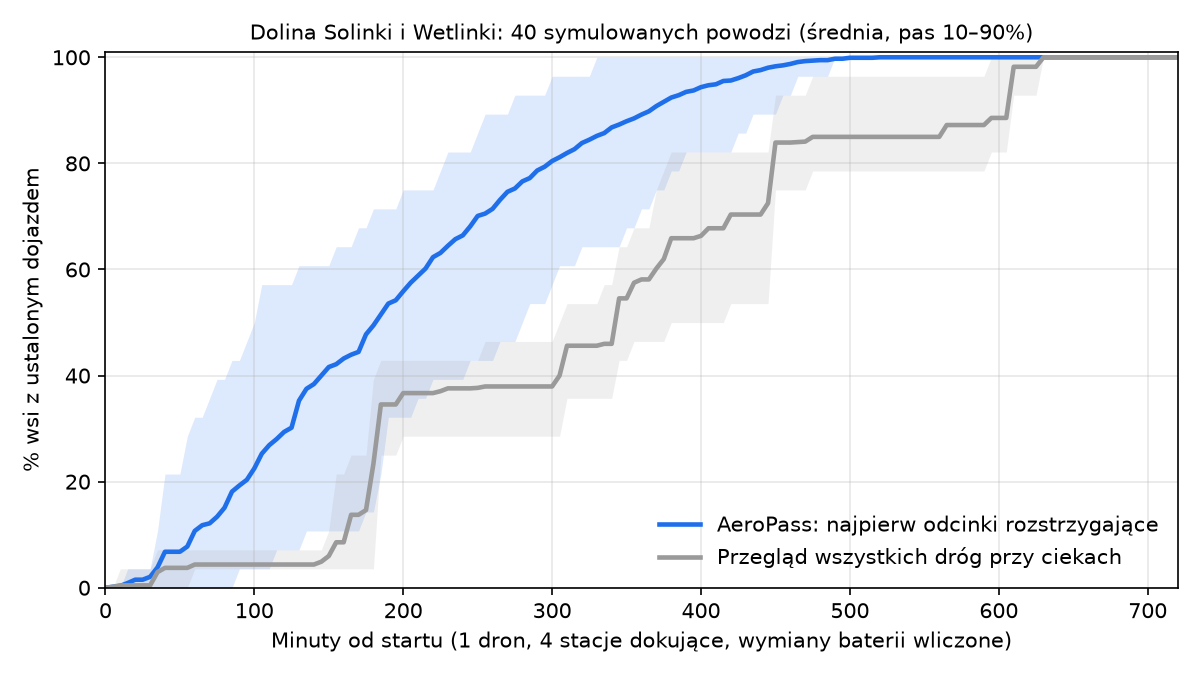
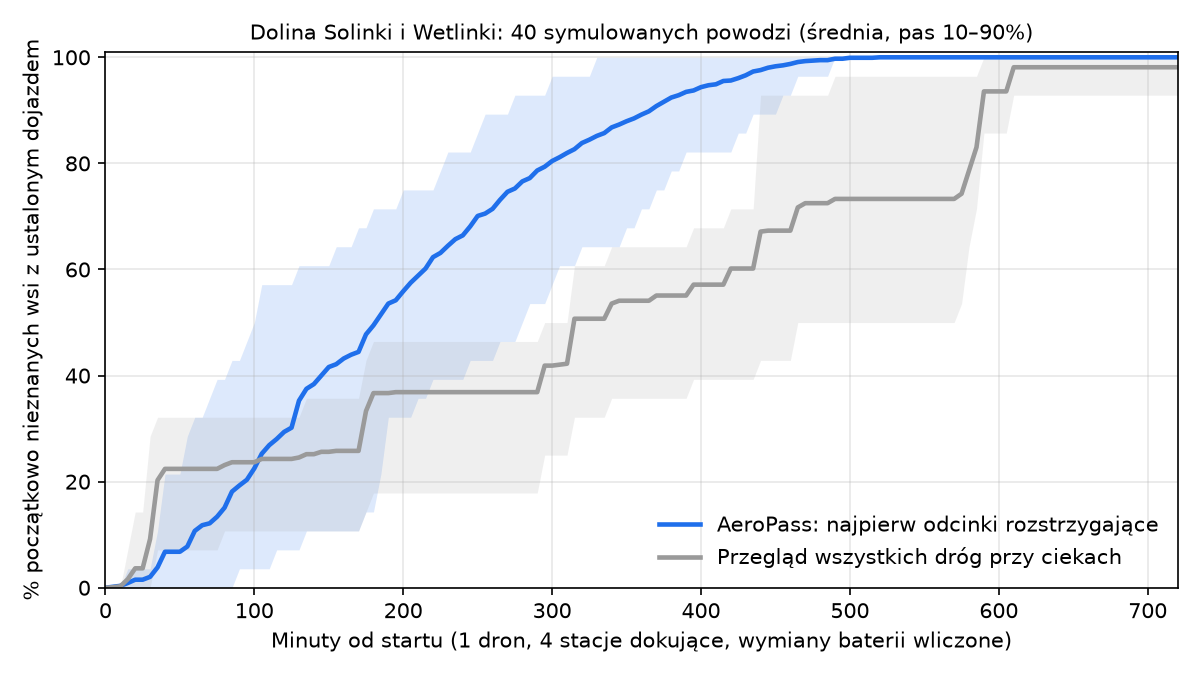
Ustabilizuj symulację Monte Carlo i przelicz wyniki

diff --git a/planer/monte_carlo.py b/planer/monte_carlo.py
@@ -20,6 +20,7 @@ Uruchomienie z katalogu repo: python planer/monte_carlo.py [liczba_scenariuszy]
 """
 import json
 import random
+import statistics
 import sys
 from pathlib import Path
 
@@ -150,9 +151,9 @@ def symuluj(swiat, prawda, strategia, obserwuj=None, po_kroku=None, drony=1):
                     if stany.get(k) == "nieznany" and k in kandydaci:
                         licznik[k] = licznik.get(k, 0) + 1
             if licznik:
-                oid = max(licznik, key=lambda o: licznik[o] / (dolot(swiat, poz, o)[0] + swiat.po_id[o]["dlugosc_m"] + 1))
+                oid = min(licznik, key=lambda o: (-licznik[o] / (dolot(swiat, poz, o)[0] + swiat.po_id[o]["dlugosc_m"] + 1), o))
         if oid is None:  # A zawsze; B, gdy nic już nie rozstrzyga: najbliższy niesprawdzony
-            oid = min(kandydaci, key=lambda o: dolot(swiat, poz, o)[0])
+            oid = min(kandydaci, key=lambda o: (dolot(swiat, poz, o)[0], o))
         d_dolot, wyjscie = dolot(swiat, poz, oid)
         przelot = (d_dolot + swiat.po_id[oid]["dlugosc_m"]) / V
         powrot = min(siec.hav(wyjscie, dk) for dk in swiat.doki) / V
@@ -211,7 +212,7 @@ def wykres(minuty, wyniki, n, drony, plik):
         ax.fill_between(minuty, p10, p90, color=kolor, alpha=0.15, linewidth=0)
         ax.plot(minuty, sr, color=kolor, linewidth=2.2, label=etykieta)
     ax.set_xlabel(f"Minuty od startu ({drony} {'dron' if drony == 1 else 'drony'}, {len(STACJE_CACHE)} stacje dokujące, wymiany baterii wliczone)")
-    ax.set_ylabel("% wsi z ustalonym dojazdem")
+    ax.set_ylabel("% początkowo nieznanych wsi z ustalonym dojazdem")
     ax.set_ylim(0, 101)
     ax.set_xlim(0, minuty[-1])
     ax.grid(alpha=0.3)
@@ -229,8 +230,7 @@ def main(n):
     STACJE_CACHE[:] = swiat.stacje
 
     def med(xs):
-        xs = sorted(x if x is not None else float("inf") for x in xs)
-        m = xs[len(xs) // 2]
+        m = statistics.median(x if x is not None else float("inf") for x in xs)
         return None if m == float("inf") else round(m)
 
     podsum = {

diff --git a/test_monte_carlo_determinism.py b/test_monte_carlo_determinism.py
@@ -1,0 +1,26 @@
+"""Ten sam scenariusz musi dawać te same czasy niezależnie od kolejności zbiorów Pythona."""
+
+import os
+import subprocess
+import sys
+
+SKRYPT = """import random,sys
+sys.path.insert(0, 'planer')
+import monte_carlo as m, scenariusz as s
+w = m.Swiat()
+p = s.losuj_prawde(w.odc, random.Random(1000))
+for strategia in ('A', 'B'):
+    krzywa, _ = m.symuluj(w, p, strategia, drony=4)
+    print(krzywa)
+"""
+
+
+if __name__ == "__main__":
+    def wynik(ziarno):
+        return subprocess.check_output(
+            [sys.executable, "-c", SKRYPT],
+            env={**os.environ, "PYTHONHASHSEED": ziarno}, text=True,
+        )
+
+    assert wynik("0") == wynik("1"), "Monte Carlo zależy od PYTHONHASHSEED"
+    print("OK: Monte Carlo jest powtarzalne")

diff --git a/README.md b/README.md
@@ -3,20 +3,18 @@
 **Autonomiczny zwiad dronowy przejezdności dróg i zalania ulic dla PSP i OSP.**
 Po alarmie powodziowym drony same sprawdzają najpierw te odcinki dróg, od których zależy dojazd do wsi. Stanowisko kierowania dostaje odpowiedź: *którędy i jakim pojazdem dojedziemy do każdej miejscowości*, ze źródłem, wiekiem i pewnością informacji. Decyzję podejmuje człowiek.
 
-*(Tu wstawić GIF z demo.)*
-
 Projekt na Dual Use Hackathon 2026 (Carpathian Drone Summit, Jasionka). Scenariusz demo: **dolina Solinki i Wetlinki (Bieszczady)**.
 
 ## Wyniki
 
-**Symulacja 40 powodzi na prawdziwej sieci dróg doliny** (OSM; 359 odcinków utwardzonych przy ciekach, 119 km). 4 drony, każdy ze swojej stacji dokującej:
+**Symulacja 40 powodzi na prawdziwej sieci dróg doliny** (OSM; 359 odcinków utwardzonych przy ciekach, 119 km). Z 30 wsi 28 ma początkowo nieznany dojazd; poniższe odsetki dotyczą tych 28 wsi. 4 drony, każdy ze swojej stacji dokującej:
 
 | | AeroPass: najpierw odcinki rozstrzygające | Przegląd wszystkich dróg przy ciekach |
 |---|---|---|
-| mediana czasu do ustalenia dojazdu do **90% wsi** | **91 min** | 150 min |
-| mediana czasu do **100% wsi** | **111 min** | 158 min |
-| średnio wsi z ustalonym dojazdem **po 60 min** | **75%** | 68% |
-| (1 dron) mediana do 90% wsi | 357 min | 608 min |
+| mediana czasu do ustalenia dojazdu do **90% początkowo nieznanych wsi** | **92 min** | 133 min |
+| mediana czasu do **100% początkowo nieznanych wsi** | **112 min** | 148 min |
+| średnio z ustalonym dojazdem **po 60 min** | **75%** | 56% |
+| (1 dron) mediana do 90% początkowo nieznanych wsi | 351 min | 588 min |
 
 ![wykres](wyniki/monte_carlo.png)
 
@@ -69,7 +67,7 @@ python demo.py --tempo 3      # terminal 2; w panelu kliknij „Zatwierdź start
 
 - `python demo.py --auto` zatwierdza start automatycznie.
 - `python planer/monte_carlo.py 40` przelicza symulację i wykresy (ok. 1 min).
-- Testy logiki (asercje): `python planer/siec.py`, `python planer/meldunek.py`, `python test_demo_inputs.py`.
+- Testy logiki (asercje): `python planer/siec.py`, `python planer/meldunek.py`, `python test_demo_inputs.py`, `python test_monte_carlo_determinism.py`.
 
 ## Jak to działa
 
